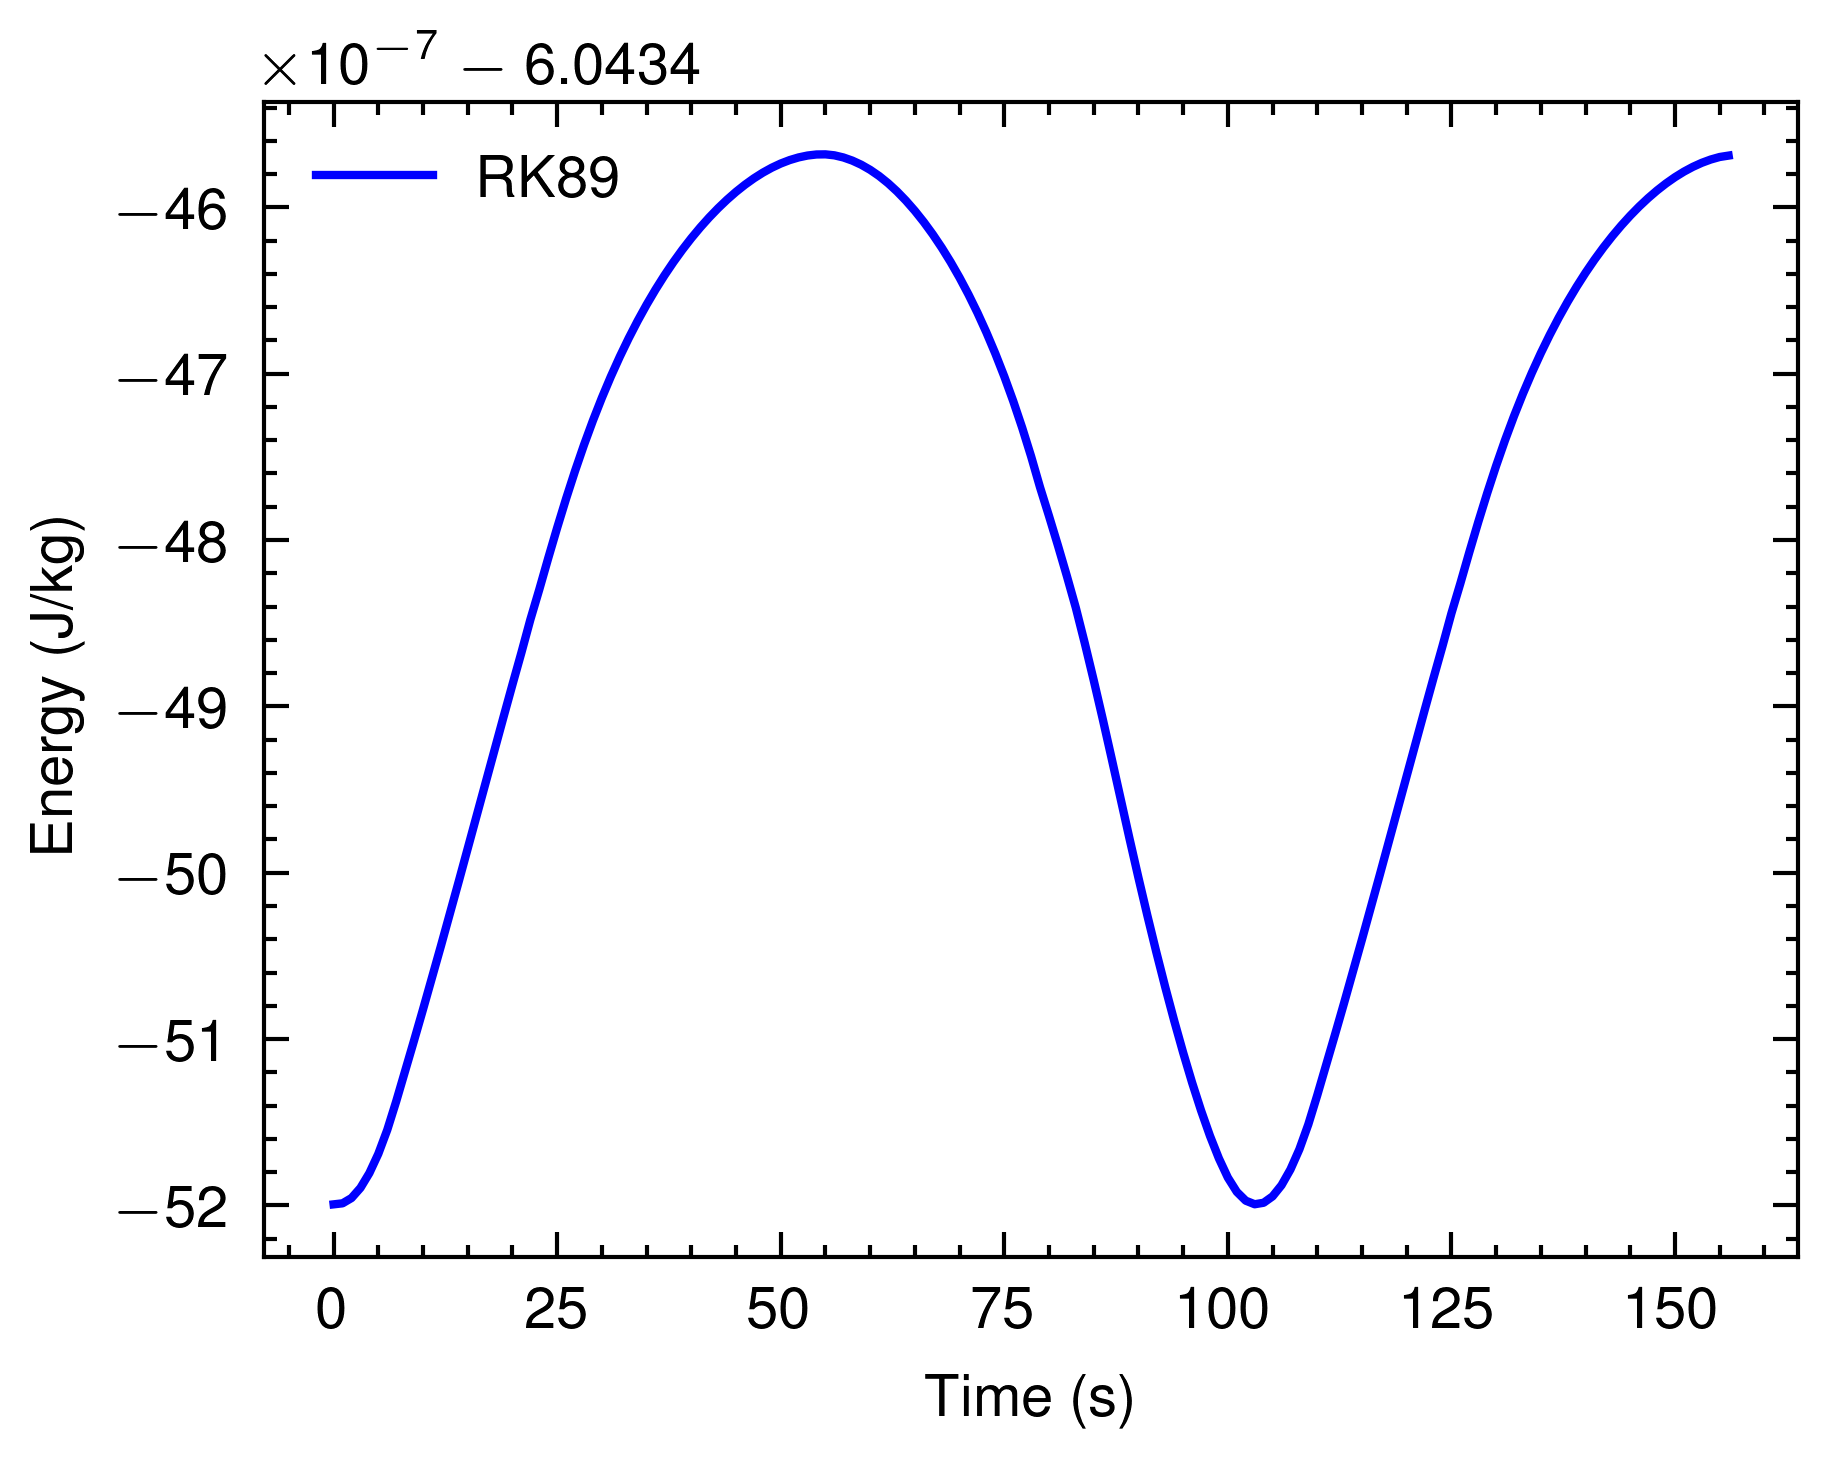
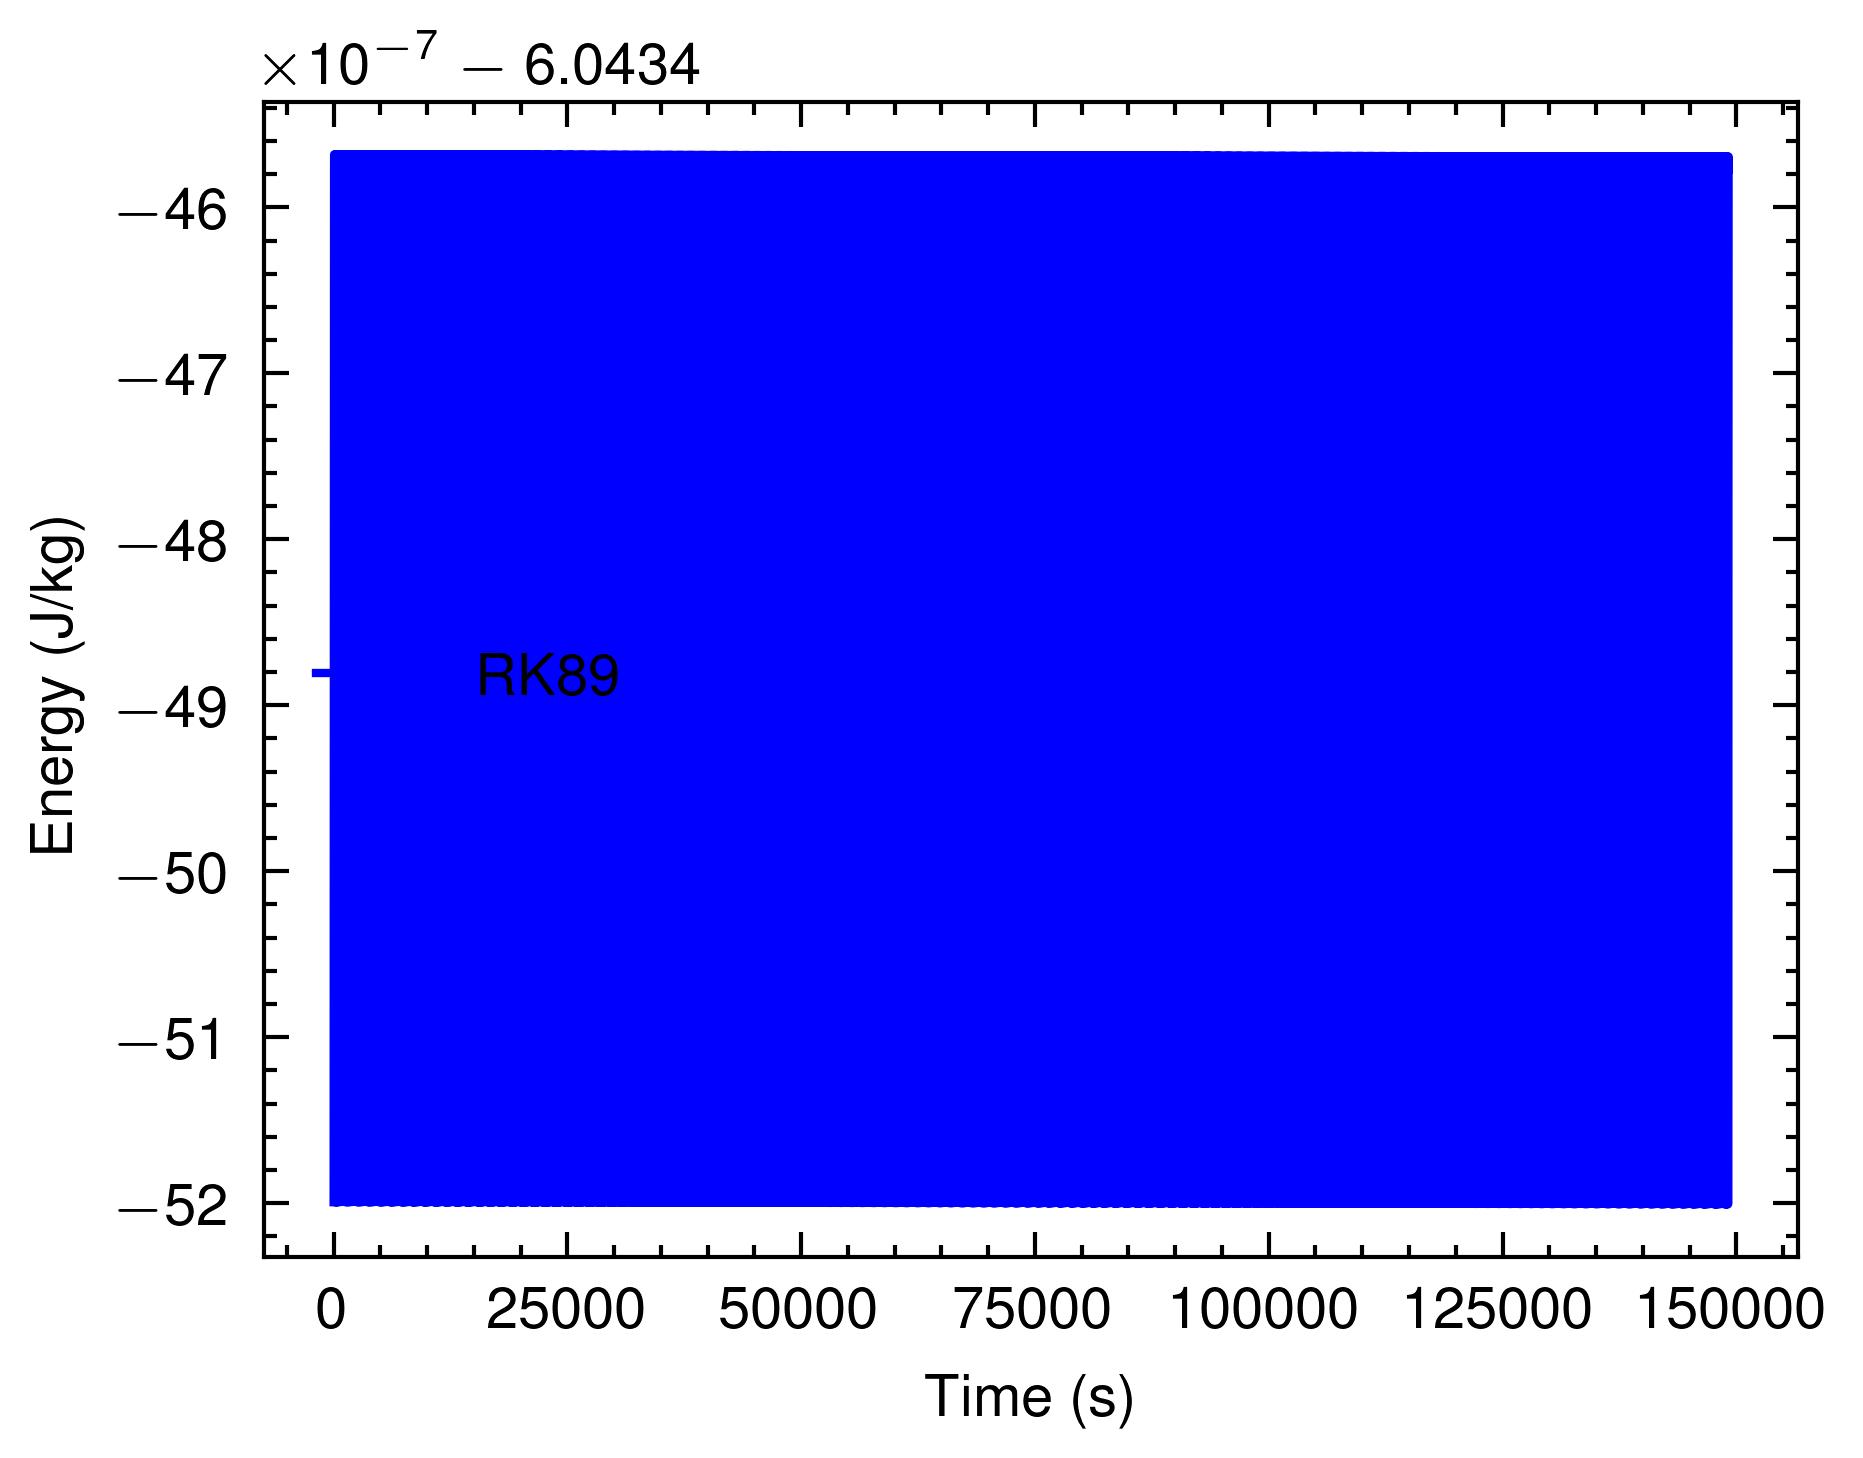
RK89 for long term

diff --git a/nyx/pq_plot.py b/nyx/pq_plot.py
@@ -1,4 +1,4 @@
-import pandas as pd
+import polars as pl
 import numpy as np
 import matplotlib.pyplot as plt
 from mpl_toolkits.mplot3d import Axes3D
@@ -9,7 +9,7 @@ R_EARTH = 6378.137  # Radius of Earth in km
 J2 = 1.08262668e-3  # J2 coefficient of Earth
 
 # Import parquet file
-df = pd.read_parquet('test.parquet')
+df = pl.read_parquet('test.parquet')
 t = df['Epoch (UTC)']
 x = np.array(df['x (km)'])[:]
 y = np.array(df['y (km)'])[:]

diff --git a/nyx/src/main.rs b/nyx/src/main.rs
@@ -56,7 +56,7 @@ fn main() -> Result<(), Box<dyn std::error::Error>> {
 
     let sc_dynamics = SpacecraftDynamics::from_model(orbital_dynamics, arc_no_dyn);
 
-    let prop_time = 1.0 * Unit::Day;
+    let prop_time = 1000.0 * Unit::Day;
 
     let setup = Propagator::rk89(
         sc_dynamics.clone(),
